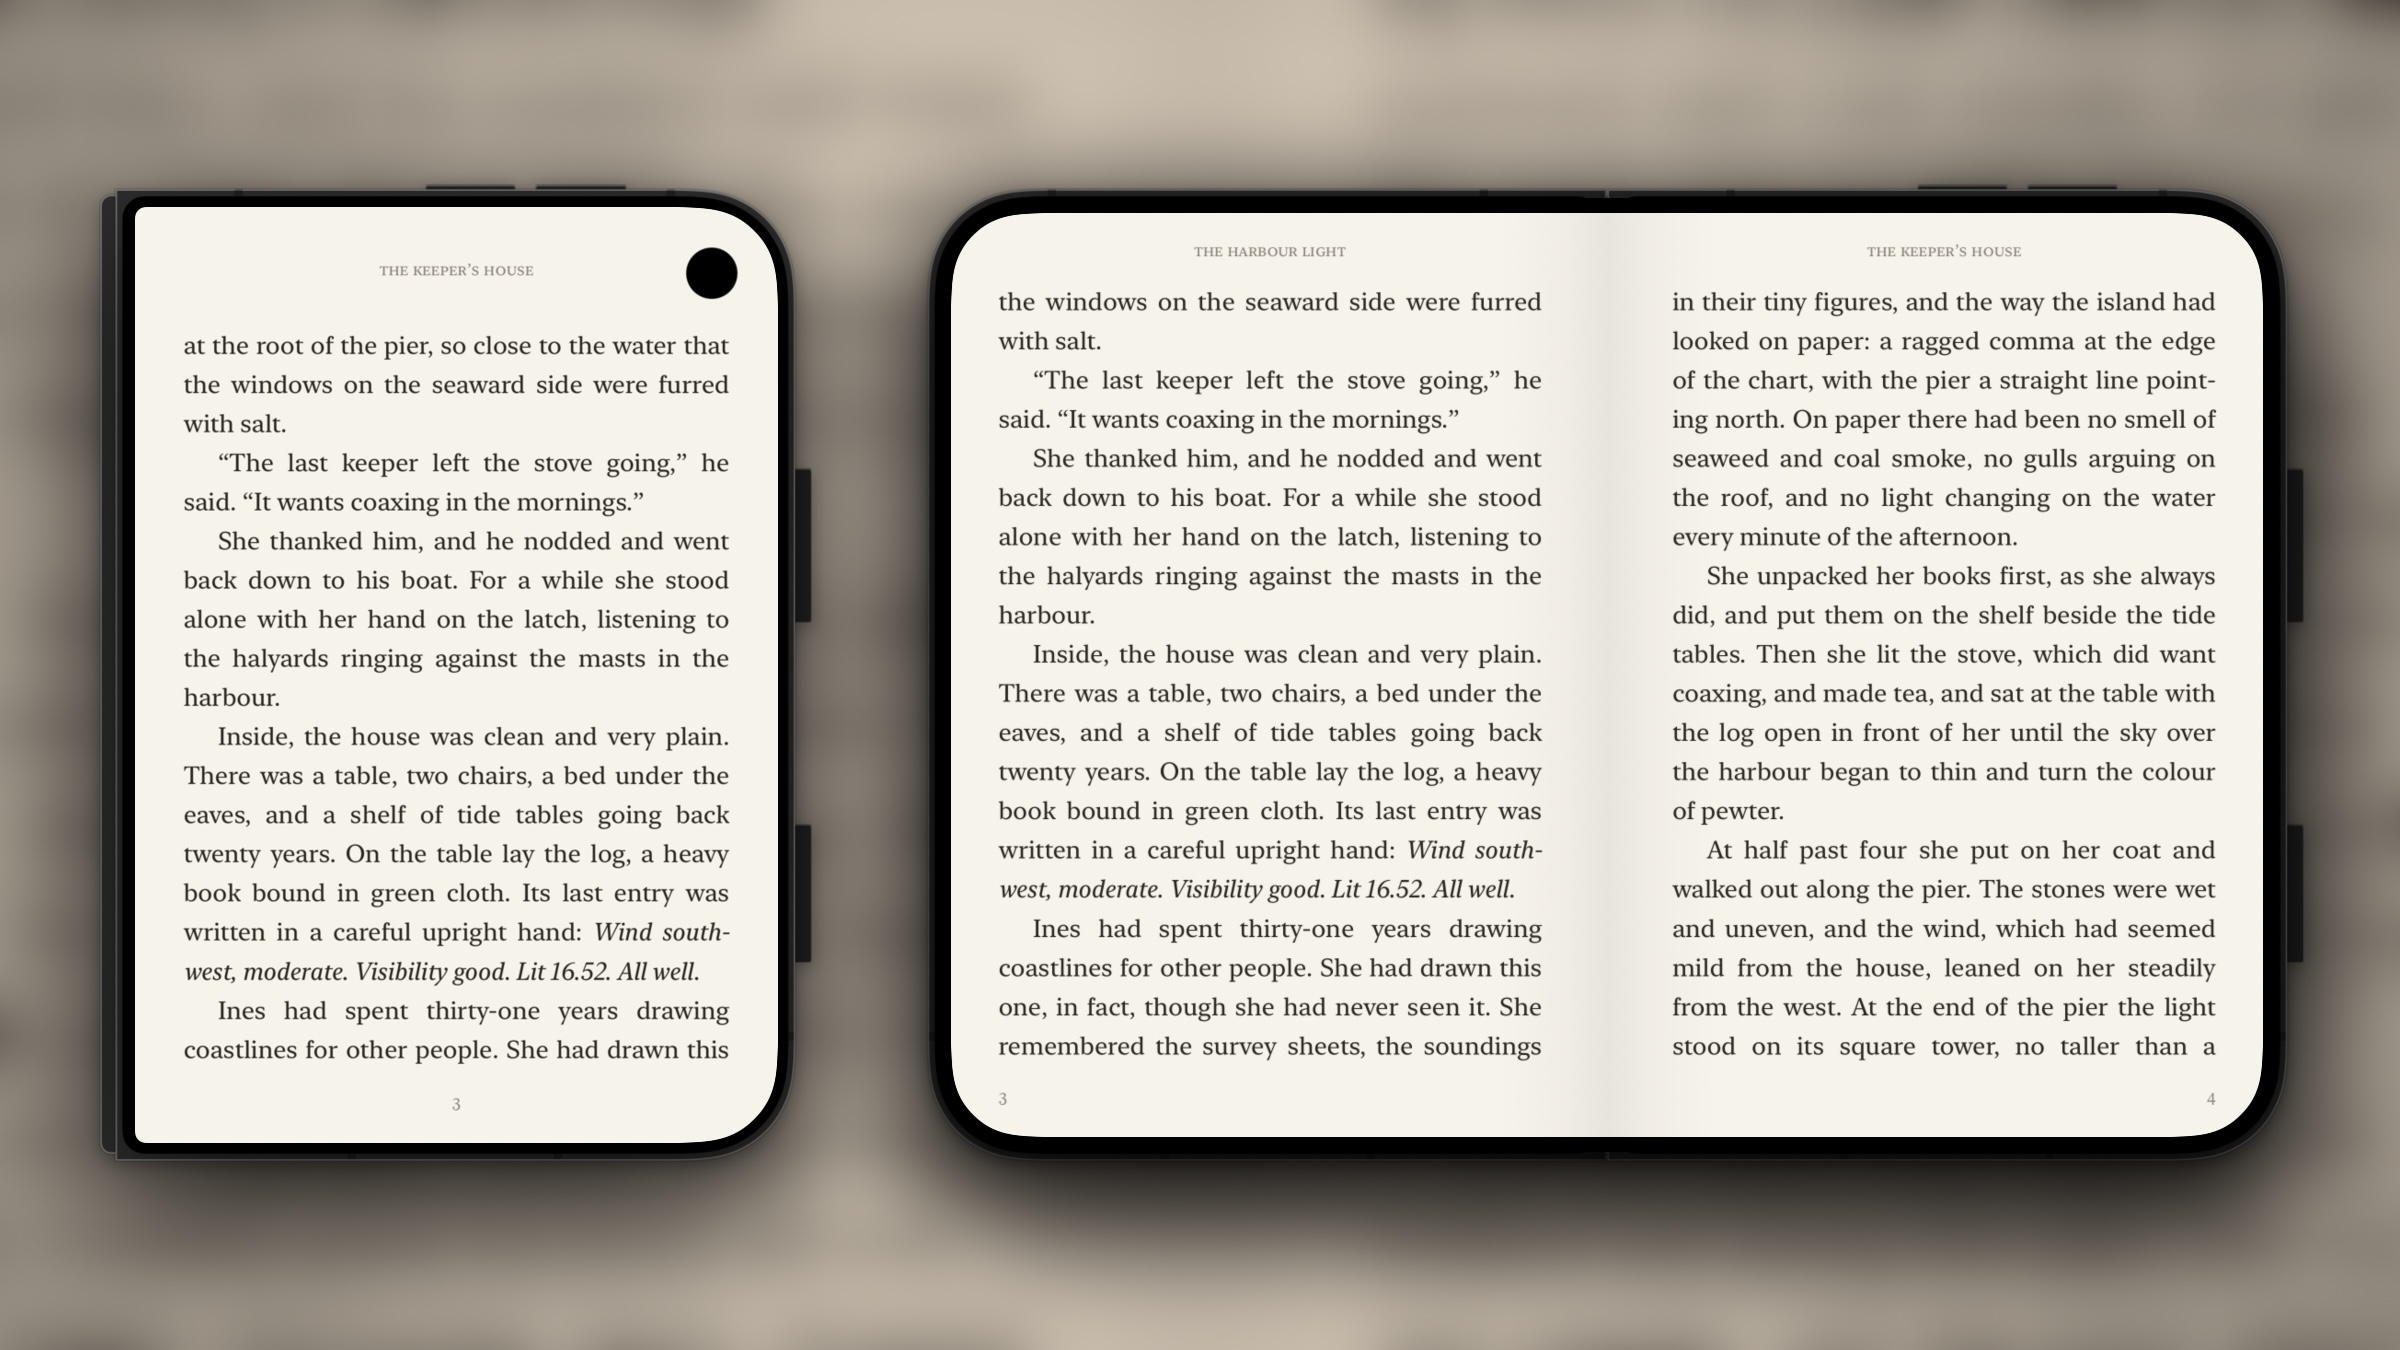
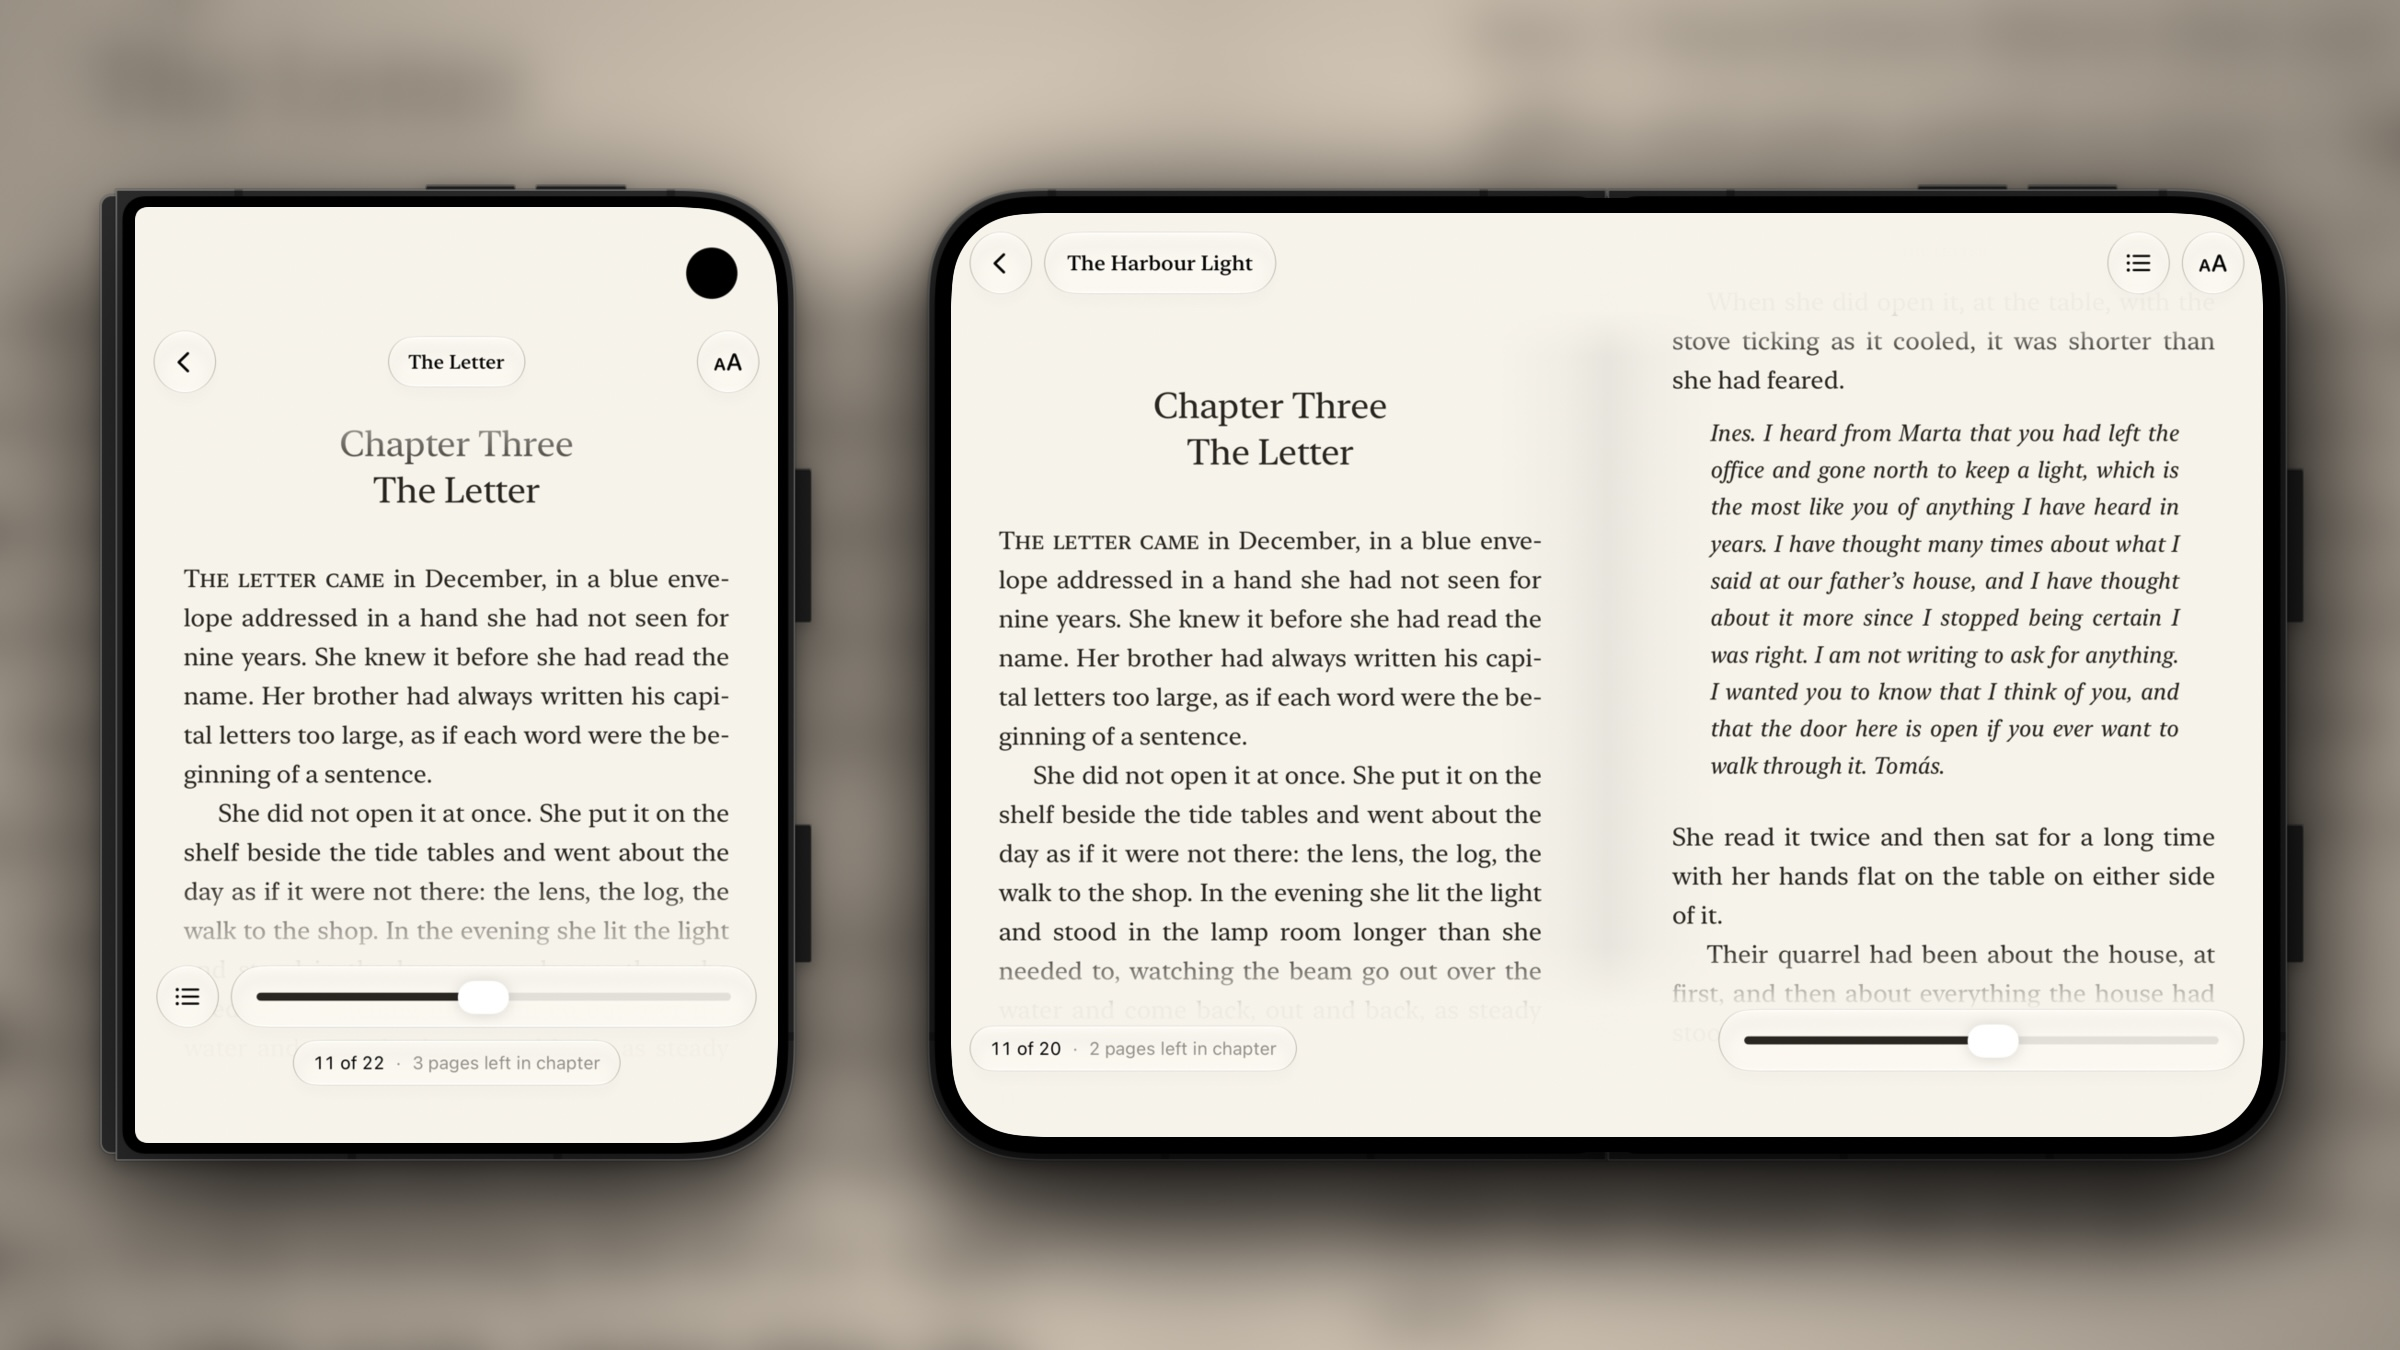
chore(marketing): show reader controls in the fold pair and draw the fold images partly closed

diff --git a/marketing/compose.swift b/marketing/compose.swift
@@ -157,6 +157,41 @@ struct OpenDuo: View {
     }
 }
 
+/// The Duo part-closed, for frames recorded mid-fold. The left half swings toward the viewer about the
+/// hinge, as a book cover does when it closes, so its screen turns away; that is the half iOS blurs. The
+/// right half stays nearly square to the viewer.
+struct FoldingDuo: View {
+    let screen: NSImage
+    let scale: CGFloat
+    /// How far the left half has turned, in degrees.
+    let fold: Double
+    /// A slight turn of the right half the other way, so the two meet in a shallow V.
+    var tilt: Double = 7
+
+    var body: some View {
+        let device = OpenDuo(screen: screen, scale: scale)
+        // Room around the device so the buttons are not clipped with the halves.
+        let size = CGSize(width: Duo.open.width * scale + 40, height: Duo.open.height * scale + 40)
+        let perspective = 0.3
+        ZStack {
+            device
+                .overlay {
+                    // The turned half catches less light; the shade stays within the device's outline.
+                    LinearGradient(colors: [.black.opacity(0.3), .black.opacity(0.06)], startPoint: .leading, endPoint: .center)
+                        .mask { device }
+                }
+                .frame(width: size.width, height: size.height)
+                .mask(alignment: .leading) { Rectangle().frame(width: size.width / 2) }
+                .rotation3DEffect(.degrees(fold), axis: (x: 0, y: 1, z: 0), anchor: .center, perspective: perspective)
+            device
+                .frame(width: size.width, height: size.height)
+                .mask(alignment: .trailing) { Rectangle().frame(width: size.width / 2) }
+                .rotation3DEffect(.degrees(-tilt), axis: (x: 0, y: 1, z: 0), anchor: .center, perspective: perspective)
+        }
+        .frame(width: size.width, height: size.height)
+    }
+}
+
 // MARK: - Scene
 
 /// The pages themselves, enlarged and out of focus, behind the phone.
@@ -219,8 +254,7 @@ MainActor.assumeIsolated {
 
     let hero = load("open-paper-hero")
     let heroWithControls = load("open-paper-chrome")
-    let pageThree = load("open-paper-p3")
-    let closed = load("closed-paper-p3")
+    let closedWithControls = load("closed-paper-ch3-chrome")
     let night = load("open-night-contents")
     let library = load("open-paper-library")
     let sepia = load("open-sepia-appearance")
@@ -233,16 +267,17 @@ MainActor.assumeIsolated {
     render(Shot(background: hero) { OpenDuo(screen: heroWithControls, scale: single) }, to: "01-spread")
 
     // Both phones at the same scale, so the closed one reads as the same device folded.
-    render(Shot(background: pageThree) {
+    // The same page closed and open, both with the reader controls showing.
+    render(Shot(background: hero) {
         HStack(alignment: .center, spacing: 70) {
-            ClosedDuo(screen: closed, scale: 0.92)
-            OpenDuo(screen: pageThree, scale: 0.92)
+            ClosedDuo(screen: closedWithControls, scale: 0.92)
+            OpenDuo(screen: heroWithControls, scale: 0.92)
         }
     }, to: "02-fold")
 
     render(Shot(background: night, tone: 0.1, glow: 0.16) { OpenDuo(screen: night, scale: single) }, to: "03-contents")
     render(Shot(background: hero) { OpenDuo(screen: library, scale: single) }, to: "04-library")
     render(Shot(background: sepia) { OpenDuo(screen: sepia, scale: single) }, to: "05-appearance")
-    render(Shot(background: hero) { OpenDuo(screen: foldSlight, scale: single) }, to: "06-fold")
-    render(Shot(background: hero) { OpenDuo(screen: foldDeep, scale: single) }, to: "07-fold-deep")
+    render(Shot(background: hero) { FoldingDuo(screen: foldSlight, scale: 0.94, fold: 34) }, to: "06-fold")
+    render(Shot(background: hero) { FoldingDuo(screen: foldDeep, scale: 0.94, fold: 50) }, to: "07-fold-deep")
 }
